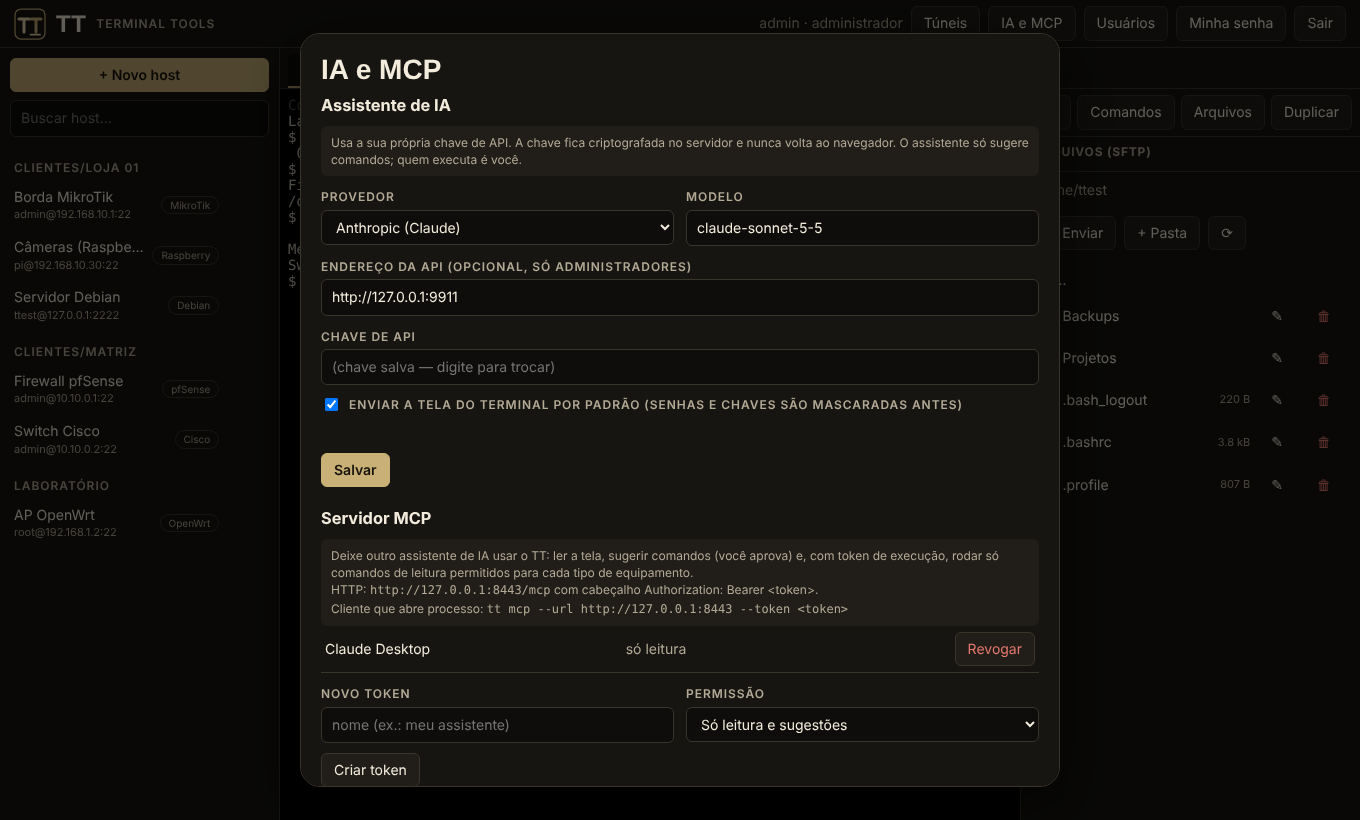
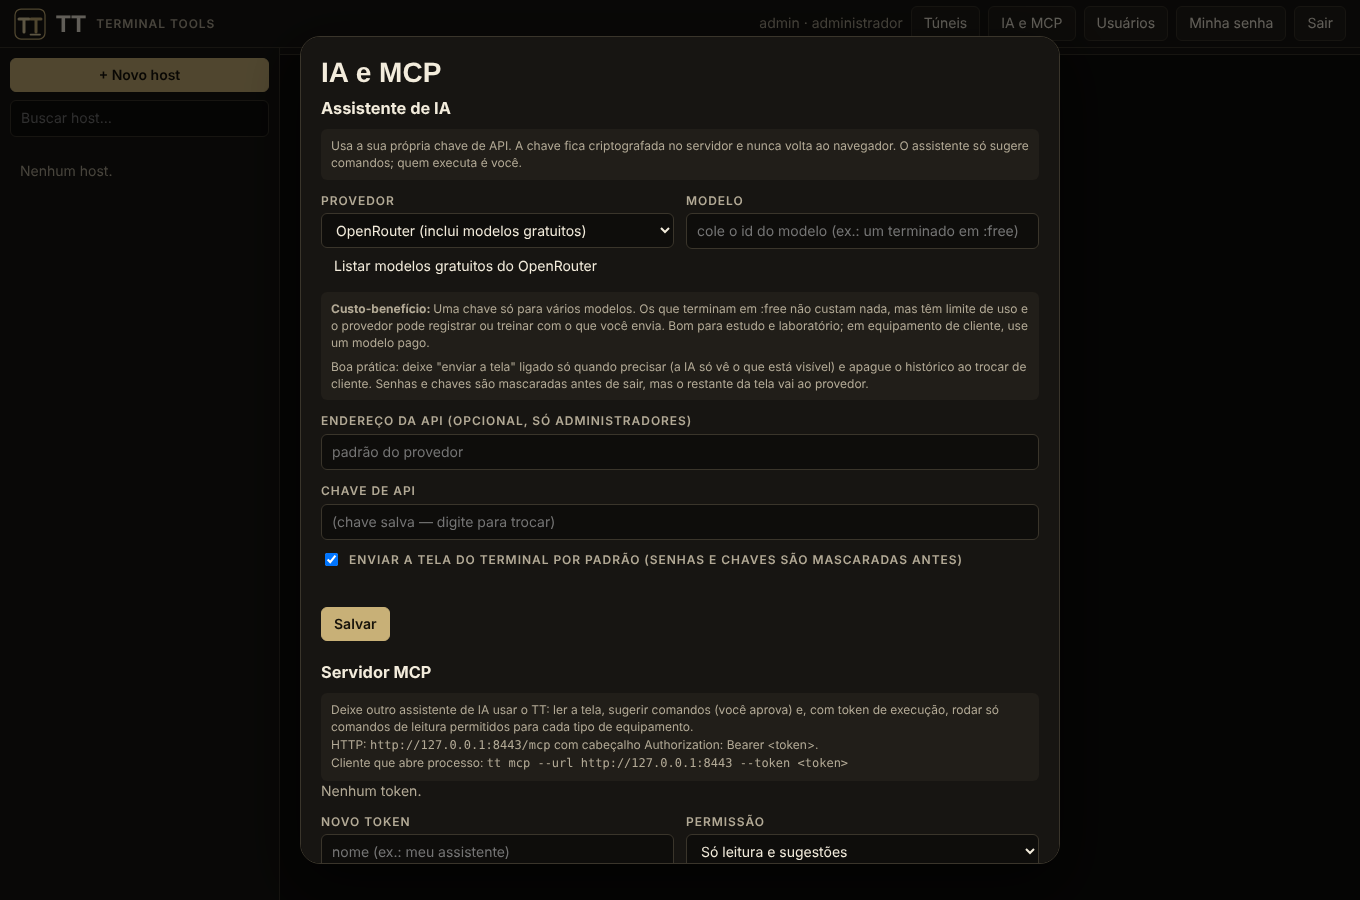
AI assistant: add Google Gemini and OpenRouter (free-model list), cost-benefit guidance
Claude-Session: https://claude.ai/code/session_011aoZNwRHCi9pGeQc1cip6T

diff --git a/ui/app.js b/ui/app.js
@@ -465,10 +465,25 @@ async function tunnelsDialog() {
 /* ---------- AI + MCP settings ---------- */
 async function aiDialog() {
   const cfg = await api('/api/ai/settings');
-  const f = { provider: h('select', {}, h('option', { value: 'anthropic' }, 'Anthropic (Claude)'), h('option', { value: 'openai' }, 'OpenAI ou compatível')), base: h('input', { value: cfg.base_url, placeholder: 'padrão do provedor' }),
-    model: h('input', { value: cfg.model, placeholder: 'ex.: claude-sonnet-5-5' }), key: h('input', { type: 'password', autocomplete: 'new-password', placeholder: cfg.has_key ? '(chave salva — digite para trocar)' : 'sua chave de API' }),
+  const f = { provider: h('select', {}, h('option', { value: 'anthropic' }, 'Anthropic (Claude)'), h('option', { value: 'gemini' }, 'Google (Gemini)'), h('option', { value: 'openrouter' }, 'OpenRouter (inclui modelos gratuitos)'), h('option', { value: 'openai' }, 'OpenAI ou compatível')), base: h('input', { value: cfg.base_url, placeholder: 'padrão do provedor' }),
+    model: h('input', { value: cfg.model, list: 'tt-models' }), key: h('input', { type: 'password', autocomplete: 'new-password', placeholder: cfg.has_key ? '(chave salva — digite para trocar)' : 'sua chave de API' }),
     screen: h('input', { type: 'checkbox', checked: cfg.send_screen, style: 'width:auto' }) };
   f.provider.value = cfg.provider;
+  const modelList = h('datalist', { id: 'tt-models' }), tip = h('div', { class: 'note' }), freeBtn = h('button', { class: 'ghost' }, 'Listar modelos gratuitos do OpenRouter');
+  const HINTS = {
+    anthropic: ['claude-sonnet-5-5', 'ex.: claude-sonnet-5-5 (equilibrado) ou um Haiku (mais barato)', 'Dia a dia: um modelo pequeno/rápido basta para explicar saídas e sugerir comandos. Troque por um modelo maior só em problemas difíceis (roteamento, firewall, conflito de configuração).'],
+    gemini: ['gemini-3.8-flash', 'ex.: gemini-3.8-flash', 'Os modelos Flash do Gemini costumam ter o melhor custo-benefício para uso diário e há uma camada gratuita (com limite de uso). Atenção: na camada gratuita o Google pode usar o conteúdo enviado para melhorar seus produtos; para equipamento de cliente, prefira a camada paga.'],
+    openrouter: ['', 'cole o id do modelo (ex.: um terminado em :free)', 'Uma chave só para vários modelos. Os que terminam em :free não custam nada, mas têm limite de uso e o provedor pode registrar ou treinar com o que você envia. Bom para estudo e laboratório; em equipamento de cliente, use um modelo pago.'],
+    openai: ['', 'nome do modelo do seu provedor', 'Serve para OpenAI e para qualquer servidor compatível, inclusive modelo local (endereço da API só para administradores), que mantém tudo dentro da sua rede.'],
+  };
+  const upd = () => {
+    const [def, ph, text] = HINTS[f.provider.value]; f.model.placeholder = ph;
+    tip.replaceChildren(h('b', {}, 'Custo-benefício: '), text, h('div', { style: 'margin-top:6px' }, 'Boa prática: deixe "enviar a tela" ligado só quando precisar (a IA só vê o que está visível) e apague o histórico ao trocar de cliente. Senhas e chaves são mascaradas antes de sair, mas o restante da tela vai ao provedor.'));
+    freeBtn.style.display = f.provider.value === 'openrouter' ? '' : 'none';
+  };
+  f.provider.addEventListener('change', () => { if (!f.model.value || Object.values(HINTS).some(x => x[0] && x[0] === f.model.value)) f.model.value = HINTS[f.provider.value][0]; upd(); });
+  freeBtn.onclick = async () => { try { const r = await api('/api/ai/free-models'); modelList.replaceChildren(...r.models.map(x => h('option', { value: x.id }, `${x.name} · ${Math.round(x.context / 1000)}k`))); freeBtn.textContent = `${r.models.length} modelos gratuitos: clique no campo Modelo para escolher`; } catch (e) { freeBtn.textContent = e.message; } };
+  upd();
   const err = h('div', { class: 'err' }), tokBox = h('div'), tokList = h('div');
   const loadTokens = async () => {
     const t = await api('/api/tokens');
@@ -477,7 +492,7 @@ async function aiDialog() {
   const tname = h('input', { placeholder: 'nome (ex.: meu assistente)' }), tscope = h('select', {}, h('option', { value: 'read' }, 'Só leitura e sugestões'), h('option', { value: 'exec' }, 'Também executar comandos de leitura'));
   const m = modal('IA e MCP', h('div', {},
     h('h3', { style: 'margin:0' }, 'Assistente de IA'), h('div', { class: 'note' }, 'Usa a sua própria chave de API. A chave fica criptografada no servidor e nunca volta ao navegador. O assistente só sugere comandos; quem executa é você.'),
-    h('div', { class: 'grid2' }, field('Provedor', f.provider), field('Modelo', f.model)),
+    h('div', { class: 'grid2' }, field('Provedor', f.provider), field('Modelo', f.model)), modelList, freeBtn, tip,
     cfg.can_set_endpoint ? field('Endereço da API (opcional, só administradores)', f.base) : null, field('Chave de API', f.key),
     h('label', { class: 'chk', style: 'margin-top:10px' }, f.screen, 'Enviar a tela do terminal por padrão (senhas e chaves são mascaradas antes)'), err,
     h('div', { style: 'margin:10px 0 20px' }, h('button', { class: 'primary', onclick: async () => { err.textContent = ''; try { await api('/api/ai/settings', { method: 'PUT', body: { provider: f.provider.value, base_url: f.base.value, model: f.model.value, api_key: f.key.value, send_screen: f.screen.checked } }); err.textContent = ''; f.key.value = ''; f.key.placeholder = '(chave salva)'; err.className = 'okc'; err.textContent = 'Salvo.'; } catch (e) { err.className = 'err'; err.textContent = e.message; } } }, 'Salvar')),

diff --git a/crates/tt/src/features.rs b/crates/tt/src/features.rs
@@ -24,6 +24,7 @@ pub fn routes() -> Router<Shared> {
         .route("/api/tunnels/{id}/stop", post(stop_tunnel))
         .route("/api/ai/settings", get(get_ai).put(put_ai))
         .route("/api/ai/chat", post(ai_chat))
+        .route("/api/ai/free-models", get(free_models))
         .route("/api/tokens", get(list_tokens).post(create_token))
         .route("/api/tokens/{id}", delete(delete_token))
         .route("/api/audit", get(audit))
@@ -158,8 +159,8 @@ fn yes() -> bool {
 }
 
 async fn put_ai(Auth(u): Auth, State(s): State<Shared>, Json(i): Json<AiInput>) -> ApiResult<Json<Value>> {
-    if !matches!(i.provider.as_str(), "anthropic" | "openai") {
-        return Err(ApiError::bad("provider must be 'anthropic' or 'openai' (any OpenAI-compatible endpoint)"));
+    if !matches!(i.provider.as_str(), "anthropic" | "openai" | "gemini" | "openrouter") {
+        return Err(ApiError::bad("provider must be 'anthropic', 'openai' (any OpenAI-compatible endpoint), 'gemini' or 'openrouter'"));
     }
     let base_url = i.base_url.trim().trim_end_matches('/').to_string();
     let current = s.db.get_ai(u.id)?;
@@ -236,6 +237,22 @@ pub fn extract_commands(reply: &str, profile: Option<&tt_core::profiles::DeviceP
     out
 }
 
+/// Public list of OpenRouter's free models (no key needed). Model ids change often, so we ask OpenRouter instead of hard-coding them.
+async fn free_models(Auth(_u): Auth) -> ApiResult<Json<Value>> {
+    let client = reqwest::Client::builder().timeout(Duration::from_secs(20)).build().map_err(anyhow::Error::from)?;
+    let v: Value = client.get("https://openrouter.ai/api/v1/models").send().await
+        .map_err(|e| ApiError(StatusCode::BAD_GATEWAY, format!("could not reach OpenRouter: {}", e.without_url())))?
+        .json().await.map_err(|e| ApiError(StatusCode::BAD_GATEWAY, format!("OpenRouter list unreadable: {}", e.without_url())))?;
+    let mut out: Vec<Value> = v["data"].as_array().map(|a| a.iter().filter_map(|m| {
+        let id = m["id"].as_str()?;
+        if !id.ends_with(":free") { return None; }
+        Some(json!({"id": id, "name": m["name"].as_str().unwrap_or(id), "context": m["context_length"].as_u64().unwrap_or(0)}))
+    }).collect()).unwrap_or_default();
+    out.sort_by(|a, b| b["context"].as_u64().cmp(&a["context"].as_u64()));
+    out.truncate(60);
+    Ok(Json(json!({ "models": out })))
+}
+
 pub async fn call_llm(s: &Shared, user_id: i64, system: &str, msgs: &[(String, String)]) -> Result<String, ApiError> {
     let a = s.db.get_ai(user_id)?;
     if a.key_enc.is_empty() {
@@ -244,14 +261,25 @@ pub async fn call_llm(s: &Shared, user_id: i64, system: &str, msgs: &[(String, S
     let key = s.vault.open(&a.key_enc)?;
     let client = reqwest::Client::builder().timeout(Duration::from_secs(90)).build().map_err(anyhow::Error::from)?;
     let bad_gateway = |m: String| ApiError(StatusCode::BAD_GATEWAY, m);
-    let text = if a.provider == "openai" {
-        let base = if a.base_url.is_empty() { "https://api.openai.com/v1".to_string() } else { a.base_url.clone() };
-        if a.model.is_empty() {
-            return Err(ApiError::bad("set the model name in AI & MCP"));
-        }
+    let text = if a.provider != "anthropic" {
+        let default_base = match a.provider.as_str() {
+            "gemini" => "https://generativelanguage.googleapis.com/v1beta/openai",
+            "openrouter" => "https://openrouter.ai/api/v1",
+            _ => "https://api.openai.com/v1",
+        };
+        let base = if a.base_url.is_empty() { default_base.to_string() } else { a.base_url.clone() };
+        let model = match (a.model.is_empty(), a.provider.as_str()) {
+            (false, _) => a.model.clone(),
+            (true, "gemini") => "gemini-3.8-flash".to_string(),
+            _ => return Err(ApiError::bad("set the model name in AI & MCP")),
+        };
         let mut m = vec![json!({"role":"system","content":system})];
         m.extend(msgs.iter().map(|(r, c)| json!({"role":r,"content":c})));
-        let res = client.post(format!("{base}/chat/completions")).bearer_auth(&key).json(&json!({"model":a.model,"messages":m})).send().await.map_err(|e| bad_gateway(format!("AI request failed: {}", e.without_url())))?;
+        let mut req = client.post(format!("{base}/chat/completions")).bearer_auth(&key).json(&json!({"model":model,"messages":m}));
+        if a.provider == "openrouter" {
+            req = req.header("X-Title", "TT Terminal Tools").header("HTTP-Referer", "https://github.com/emersoncassis/TT");
+        }
+        let res = req.send().await.map_err(|e| bad_gateway(format!("AI request failed: {}", e.without_url())))?;
         let status = res.status();
         let v: Value = res.json().await.map_err(|e| bad_gateway(format!("AI response unreadable: {}", e.without_url())))?;
         if !status.is_success() {

diff --git a/docs/AI-AND-MCP.md b/docs/AI-AND-MCP.md
@@ -6,11 +6,22 @@ Princípio: **a IA sugere, o técnico decide.** Nada é executado sozinho.
 
 Botão **Assistente** ao lado de cada terminal.
 
-- **Chave própria.** Em *IA e MCP* o usuário escolhe o provedor (Anthropic, ou OpenAI/qualquer endpoint compatível), o modelo e cola a chave de API. A chave é criptografada no servidor e nunca volta ao navegador. Endereço de API personalizado (ex.: um LLM local) só pode ser definido por administradores, porque faz o servidor abrir conexões para a URL informada.
+- **Chave própria.** Em *IA e MCP* o usuário escolhe o provedor — **Anthropic (Claude), Google (Gemini), OpenRouter** ou OpenAI/qualquer servidor compatível —, o modelo e cola a chave de API. A chave é criptografada no servidor e nunca volta ao navegador. Endereço de API personalizado (ex.: um LLM local) só pode ser definido por administradores, porque faz o servidor abrir conexões para a URL informada.
 - **Contexto.** A cada pergunta o navegador envia o que está na tela (as últimas linhas do terminal). O servidor **mascara segredos antes de enviar ao modelo** (chaves privadas, `secret`/`password`, `snmp community`, PSK/WPA, tokens) e inclui o tipo de equipamento e as notas do perfil no prompt do sistema. O usuário pode desligar o envio da tela.
 - **Só sugere.** As respostas trazem os comandos em cartões com **Colar** e **Executar**. Comandos que estão na lista de leitura do perfil têm execução direta; os demais mostram aviso e pedem confirmação.
 - **Injeção de prompt.** A tela é enviada dentro de `<terminal_screen>` e o prompt manda tratá-la como dado não confiável.
 - **Auditoria.** Cada pergunta gera um registro (sem o conteúdo).
+
+### Escolhendo provedor e modelo (custo-benefício)
+
+| Provedor | Quando usar | Observações |
+|---|---|---|
+| **Gemini (Google)** | Uso diário barato: os modelos *Flash* costumam dar o melhor custo-benefício, e há camada gratuita com limite de uso. | Na camada gratuita o Google pode usar o conteúdo enviado para melhorar seus produtos: para equipamento de cliente, prefira a camada paga. Modelo padrão: `gemini-3.8-flash`. |
+| **OpenRouter** | Uma chave para vários modelos, e **modelos gratuitos** (ids terminados em `:free`). O botão *Listar modelos gratuitos* consulta a lista pública do OpenRouter na hora, porque esses ids mudam com frequência. | Modelos gratuitos têm limite de uso e o provedor pode registrar o que você envia. Bom para estudo e laboratório. |
+| **Anthropic (Claude)** | Problemas difíceis (roteamento, firewall, configuração conflitante) em que a qualidade do raciocínio pesa mais que o preço. | Modelo padrão: `claude-sonnet-5-5`; um modelo menor sai mais barato no dia a dia. |
+| **OpenAI ou compatível** | Servidor próprio ou modelo local, que mantém tudo dentro da sua rede. | Endereço da API só para administradores. |
+
+Estratégia simples: modelo pequeno ou gratuito para explicar saídas e sugerir comandos de rotina; modelo maior só quando travar. Em ambiente de cliente, use plano pago/sem treino e deixe *enviar a tela* ligado só quando precisar: a redação de segredos é por padrões e **o restante da tela vai ao provedor**.
 
 ## 2. TT como servidor MCP (implementado)
 

diff --git a/README.md b/README.md
@@ -94,7 +94,7 @@ No modo servidor, o **primeiro acesso cria o administrador**, que depois cria os
 - **Túneis SSH:** encaminhamento local e proxy **SOCKS5**, com iniciar e parar pelo painel.
 - **Gerenciador de sessões** com pastas e busca.
 - **Multiusuário:** administrador e usuários, cada um com seus hosts.
-- **Assistente de IA** ao lado do terminal, com a **sua** chave de API (Anthropic ou compatível com OpenAI): lê a tela, explica e **sugere**. Nunca executa sozinho.
+- **Assistente de IA** ao lado do terminal, com a **sua** chave de API: **Claude, Gemini (Google), OpenRouter (inclui modelos gratuitos)** ou qualquer servidor compatível com OpenAI, com dicas de custo-benefício na própria tela: lê a tela, explica e **sugere**. Nunca executa sozinho.
 - **Servidor MCP** (HTTP e stdio): outra IA pode ler a tela, sugerir comandos e rodar comandos de **leitura** permitidos por equipamento, com tokens pessoais e auditoria. Veja [docs/AI-AND-MCP.md](docs/AI-AND-MCP.md) e a [skill](skill/tt-network-assistant/SKILL.md).
 - **Marca personalizável** (nome, cor, logo) por arquivo, sem recompilar.
 
